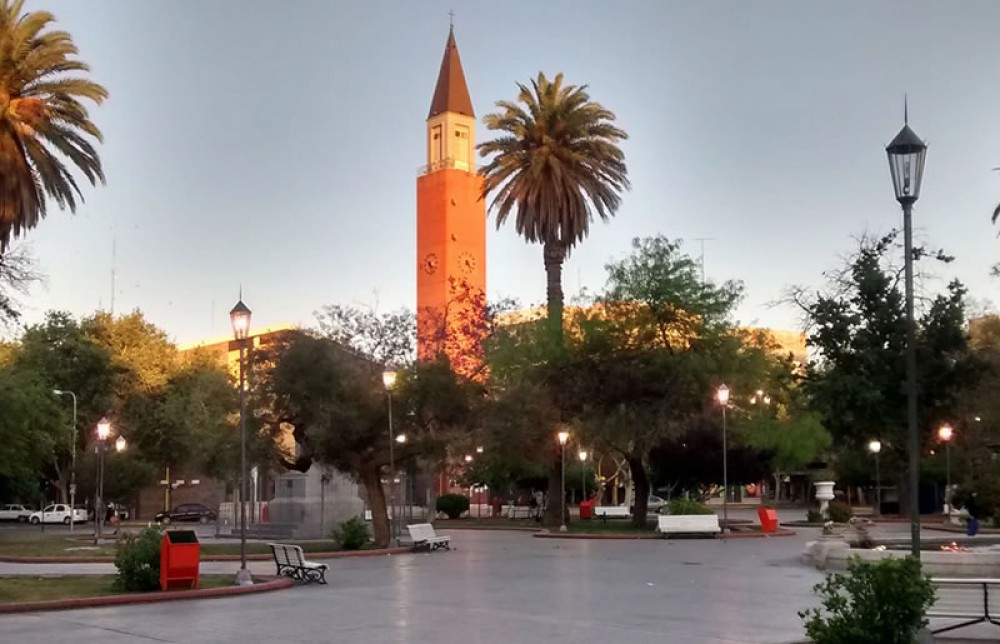
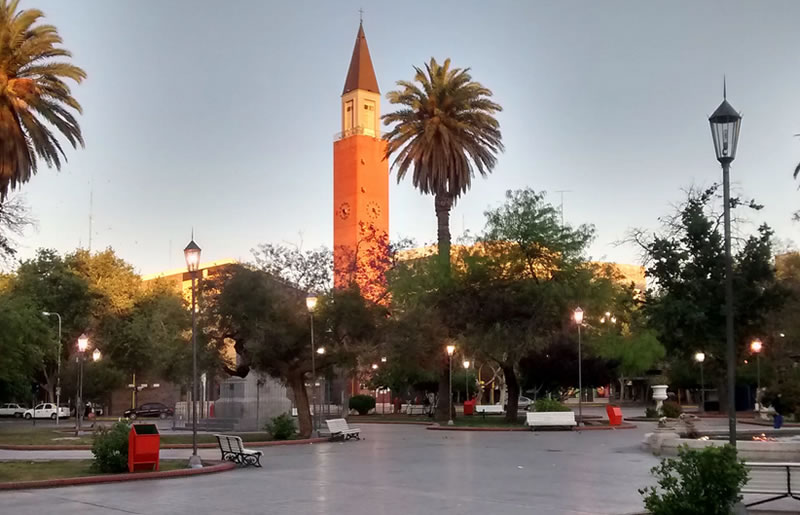
Fotos de mejor calidad

diff --git a/docs/lista-inmuebles.html b/docs/lista-inmuebles.html
@@ -85,7 +85,7 @@
     </div>
   </div>
 
-    <div class="slide-one-item home-slider owl-carousel">
+    <!-- <div class="slide-one-item home-slider owl-carousel">
 
       <div class="site-blocks-cover overlay" style="background-image: url(images/hero_bg_1.jpg);" data-aos="fade" data-stellar-background-ratio="0.5">
         <div class="container">
@@ -113,8 +113,16 @@
         </div>
       </div>  
 
+    </div> -->
+    <div class="site-blocks-cover inner-page-cover overlay" style="background-image: url(images/sanjuan-plaza25.jpeg);" data-aos="fade" data-stellar-background-ratio="0.5">
+      <div class="container">
+        <div class="row align-items-center justify-content-center text-center">
+          <div class="col-md-10">
+            <h1 class="mb-2">Propiedades</h1>
+          </div>
+        </div>
+      </div>
     </div>
-
 
     <div class="site-section site-section-sm pb-0">
       <div class="container">

diff --git a/docs/contacto.html b/docs/contacto.html
@@ -85,12 +85,12 @@
     </div>
   </div>
 
-    <div class="site-blocks-cover inner-page-cover overlay" style="background-image: url(images/sanjuan-aire.jpeg);" data-aos="fade" data-stellar-background-ratio="0.5">
+    <div class="site-blocks-cover inner-page-cover overlay" style="background-image: url(images/sanjuan-plaza25-noche.jpeg);" data-aos="fade" data-stellar-background-ratio="0.5">
       <div class="container">
         <div class="row align-items-center justify-content-center text-center">
           <div class="col-md-10">
             <h1 class="mb-2">CONTACTO CON ENLACE INMOBILIARIO</h1>
-            <h3 class="mb-2">Dejanos tu consulta y nos comunicaremos con a la brevedad</h3>
+            <h3 style="color: white;" class="mb-2">Dejanos tu consulta y nos comunicaremos con a la brevedad</h3>
           </div>
         </div>
       </div>
